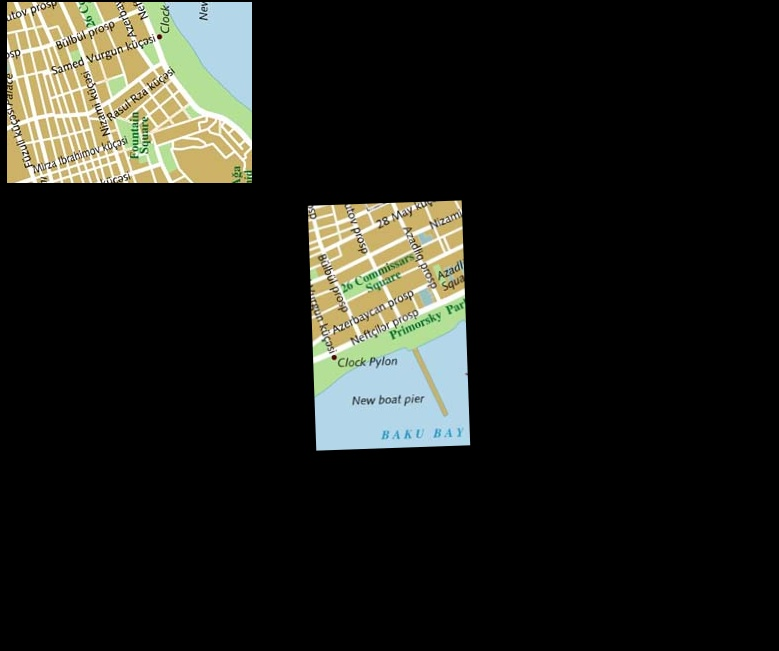
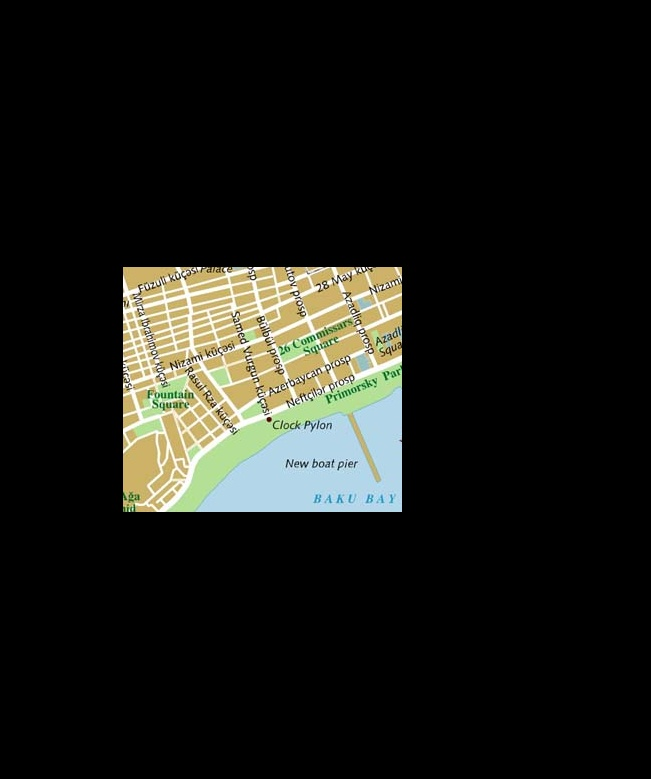
If not overlap, the loss goes up

Changed region(s): [[0.1843, 0.3072, 0.6144, 0.7066], [0.0, 0.0, 0.3379, 0.3072]]

diff --git a/ImageStitcher.py b/ImageStitcher.py
@@ -50,19 +50,17 @@ class ImageStitcher:
         SHIFT_X,SHIFT_Y, thetha = SHIFT
         SHIFT_X, SHIFT_Y, thetha = int(SHIFT_X*(self.w1+self.w2)),int(SHIFT_Y*(self.h1+self.h2)),int(thetha*360)
         print("SHIFT_X: ",SHIFT_X,"    SHIFT_Y: ",SHIFT_Y,"    Angle: ",thetha)
-        # self.drawImage(SHIFT_X,SHIFT_Y)
         if (SHIFT_X>=self.w1+self.img2_canvas_size or SHIFT_Y>=self.h1+self.img2_canvas_size or SHIFT_Y<1 or SHIFT_X<1):
             return 255*3*self.w1*self.h1*self.h2*self.w2
         canvas = self.rotateImage(thetha)
         canvas[:self.h1,:self.w1,:3] = self.img1
-        # cv2.imshow('image',canvas)
-        # cv2.waitKey(500)
+        # self.drawImage(SHIFT_X,SHIFT_Y,thetha,10)
         coor = self.getIntersectionCoordinates(self.h1,self.w1,self.img2_canvas_size,self.img2_canvas_size,SHIFT_X,SHIFT_Y)
         image1 = canvas[coor['y6']-SHIFT_Y:coor['y5']-SHIFT_Y,coor['x5']-SHIFT_X:coor['x6']-SHIFT_X,:3]
         image2 = canvas[coor['y6']:coor['y5'],coor['x5']:coor['x6'],:3]
-        loss = np.mean(np.absolute(np.subtract(image1,image2)))
-        if (loss==0):
+        if np.sum(image2)==0:
             return 255*3*self.w1*self.h1*self.h2*self.w2
+        loss = np.mean(np.absolute(np.subtract(image1,image2)))
         return loss
 
     def drawImage(self,X,Y, thetha,time):
@@ -102,6 +100,7 @@ class ImageStitcher:
                     x0 = [x,y,thetha]
                     res = minimize(self.calculateLoss,x0, method = 'nelder-mead', options={'disp':True})
                     savedParameters[0].append(res.fun)
+                    print(res.fun)
                     savedParameters[1].append(res.x)
                     print("\n\n\n\n")
         

diff --git a/main.py b/main.py
@@ -7,12 +7,12 @@ class main:
 
     def mosaic2Images(img1,img2):
         mosaic = ImageStitcher(img1.copy(),img2.copy(),False)
-        mosaic.mosaicImages(10)
+        mosaic.mosaicImages(5)
         mosaic.drawImage(mosaic.BestX,mosaic.BestY,mosaic.Best_Rotate,0)
 
     if __name__=='__main__':
         START_TIME = time.time()
-        img1 = cv2.imread('/cs/home/ri31/project-scripts/images/Map1-rotate.png')
+        img1 = cv2.imread('/cs/home/ri31/project-scripts/images/Map1.png')
         img2 = cv2.imread('/cs/home/ri31/project-scripts/images/Map2.png')  
         mosaic2Images(img1,img2)
         END_TIME = time.time()
